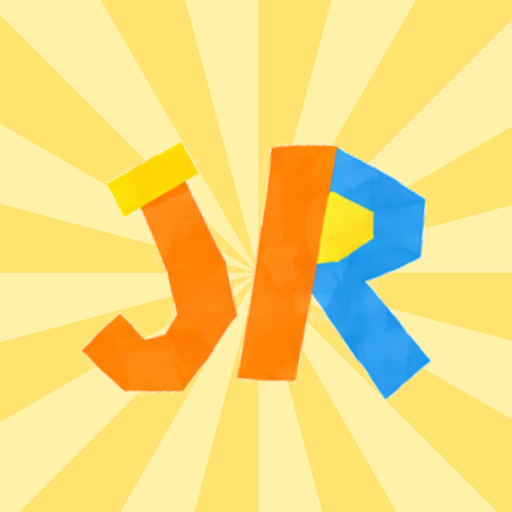
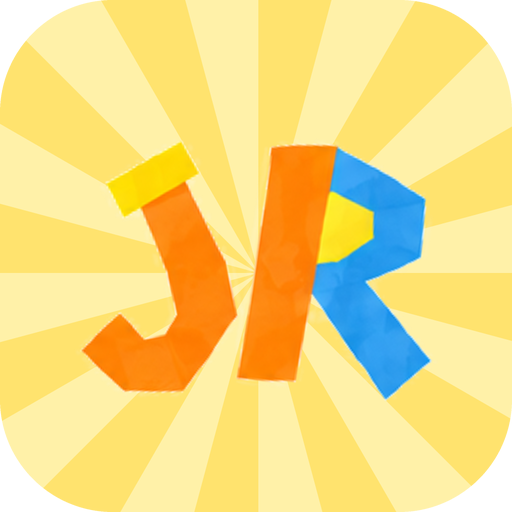
Add files via upload

diff --git a/index.html b/index.html
@@ -11,7 +11,7 @@
 <meta name="theme-color" content="#2f5a40">
 <meta name="mobile-web-app-capable" content="yes">
 <meta name="apple-mobile-web-app-capable" content="yes">
-<link rel="apple-touch-icon" href="icon-192.png">
+<link rel="apple-touch-icon" href="apple-touch-icon.png">
 <script src="version.js"></script>
 <style>
   html, body { margin: 0; height: 100%; background: #16261c; overflow: hidden; }

diff --git a/game.html b/game.html
@@ -36,7 +36,7 @@
   <meta name="mobile-web-app-capable" content="yes">
   <meta name="apple-mobile-web-app-capable" content="yes">
   <meta name="apple-mobile-web-app-status-bar-style" content="black-translucent">
-  <link rel="apple-touch-icon" href="icon-192.png">
+  <link rel="apple-touch-icon" href="apple-touch-icon.png">
 </head>
 <body>
 

diff --git a/version.js b/version.js
@@ -1,4 +1,4 @@
 // ===== GAME VERSION =====
 // Bump this number every time you push an update. Open game windows notice it and reload by themselves
 // (only while the player is NOT in a song, results, pack opening, etc.).
-window.GAME_VERSION = 23;
+window.GAME_VERSION = 24;
